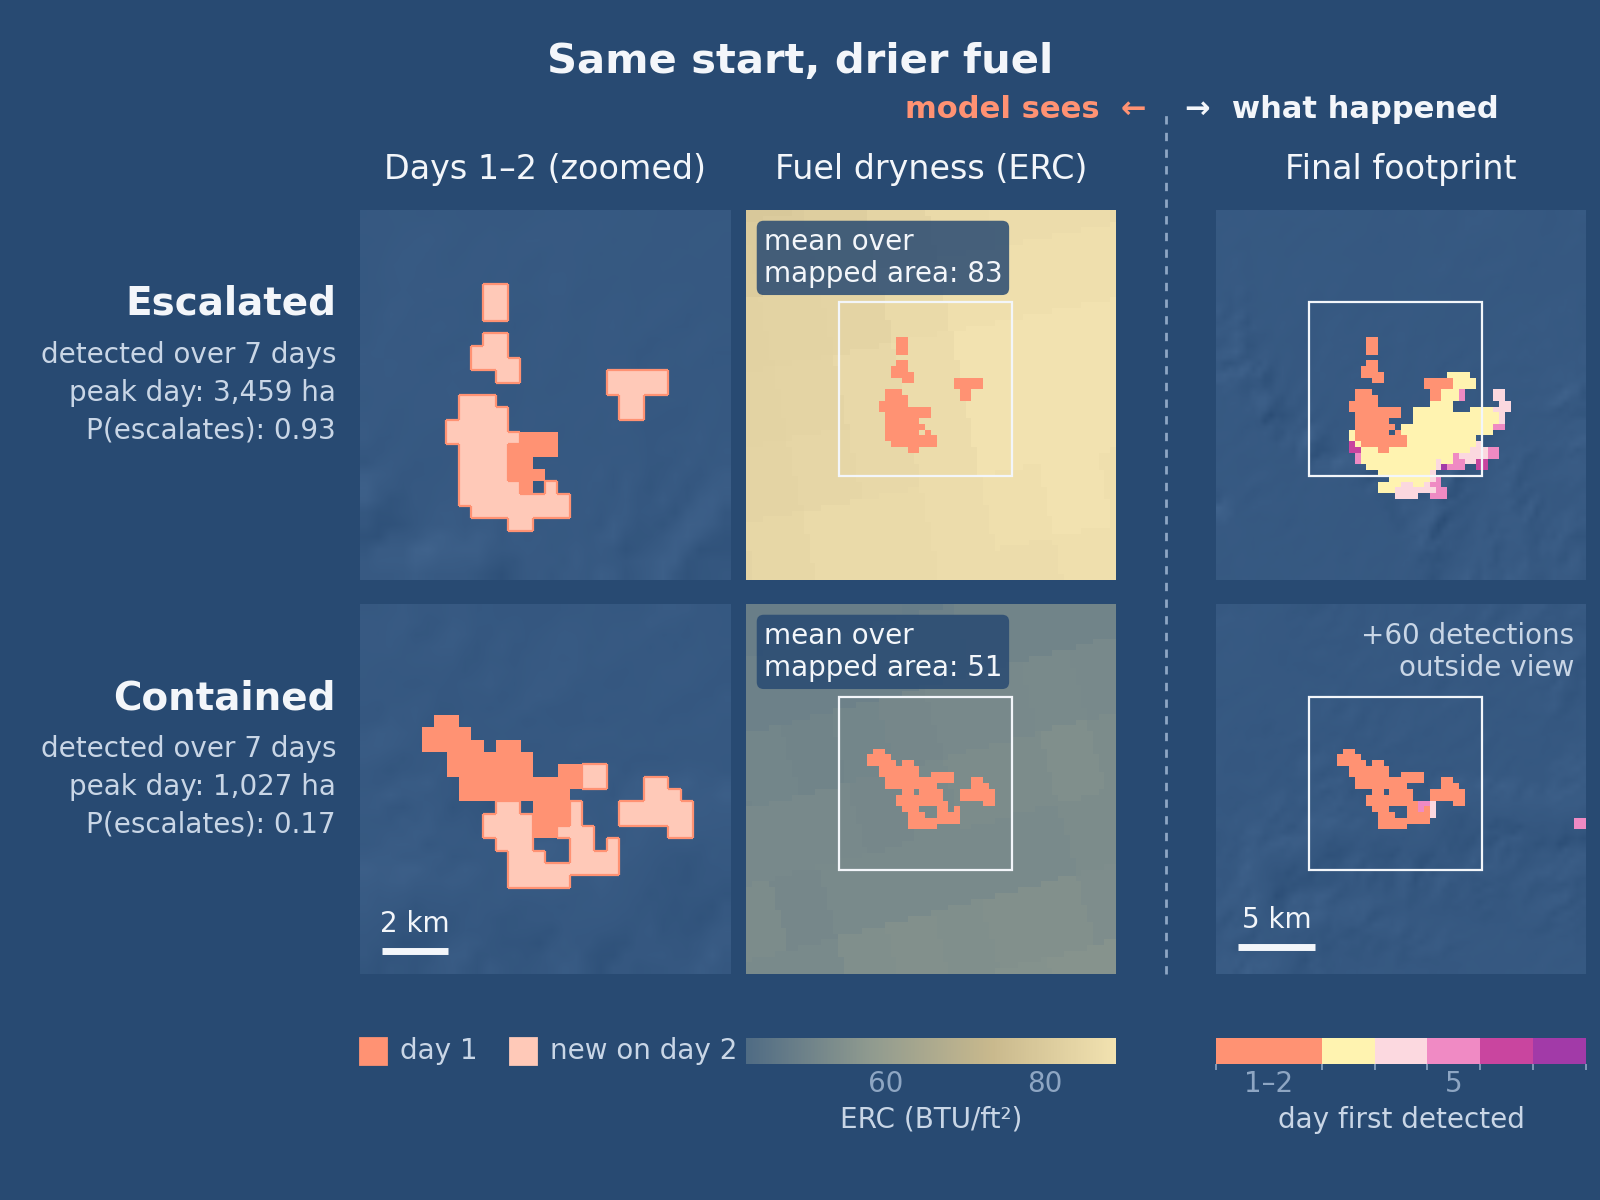
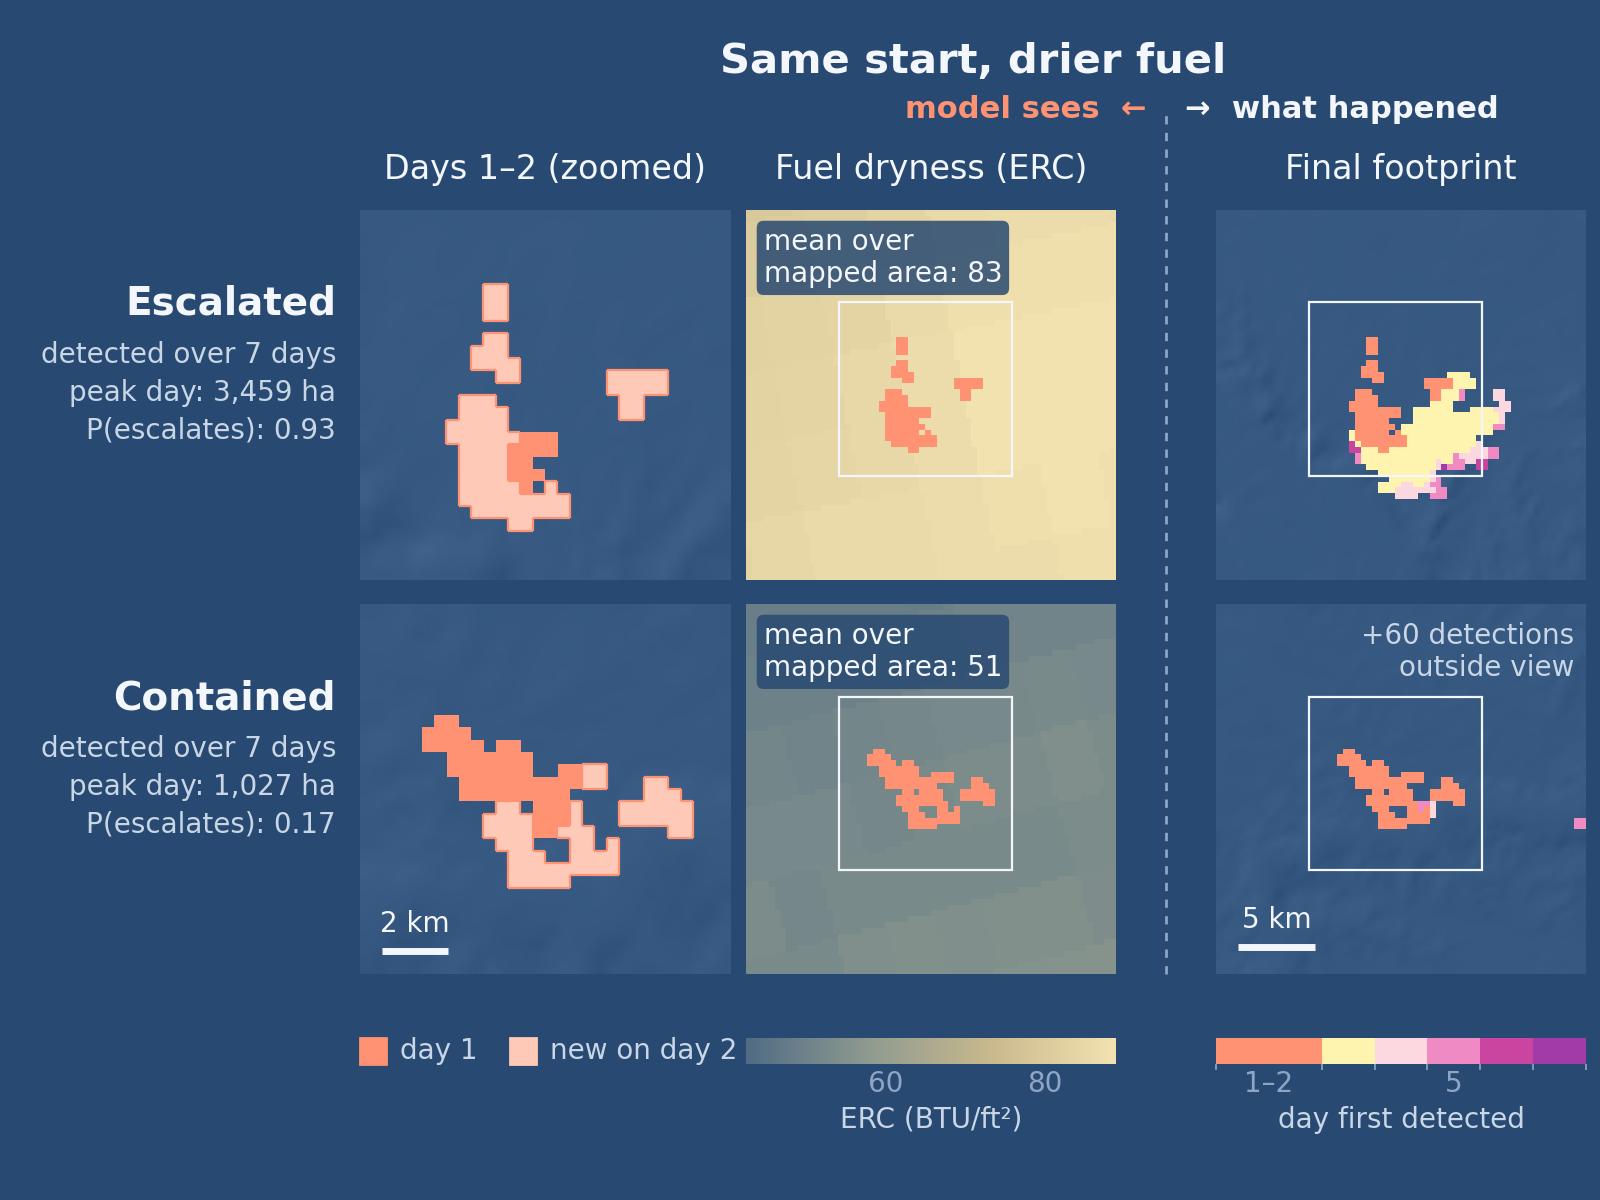
Center showcase figure title over panel grid

Changed region(s): [[0.3438, 0.0308, 0.7812, 0.0617]]

diff --git a/src/flashpoint/site_figures.py b/src/flashpoint/site_figures.py
@@ -431,7 +431,10 @@ def plot_driver_figure(rows: list[dict], driver_title: str, driver_unit: str,
              color=ACCENT, fontweight="bold")
     fig.text(div_x + 0.012, top, "→  what happened", ha="left", va="center", fontsize=11,
              color=SITE_TEXT, fontweight="bold")
-    fig.text(0.5, 0.965, title, ha="center", va="top", fontsize=15, fontweight="bold")
+    # Title centered over the panel grid (Days 1-2 left edge to footprint right edge).
+    fig.canvas.draw()
+    grid_x = (axes[0][0].get_position().x0 + axes[0][2].get_position().x1) / 2
+    fig.text(grid_x, 0.965, title, ha="center", va="top", fontsize=15, fontweight="bold")
 
     # One scale bar per scale, bottom row.
     _scale_bar(axes[-1][0], zooms[-1][2], _nice_km(zooms[-1][2]), SITE_TEXT)
